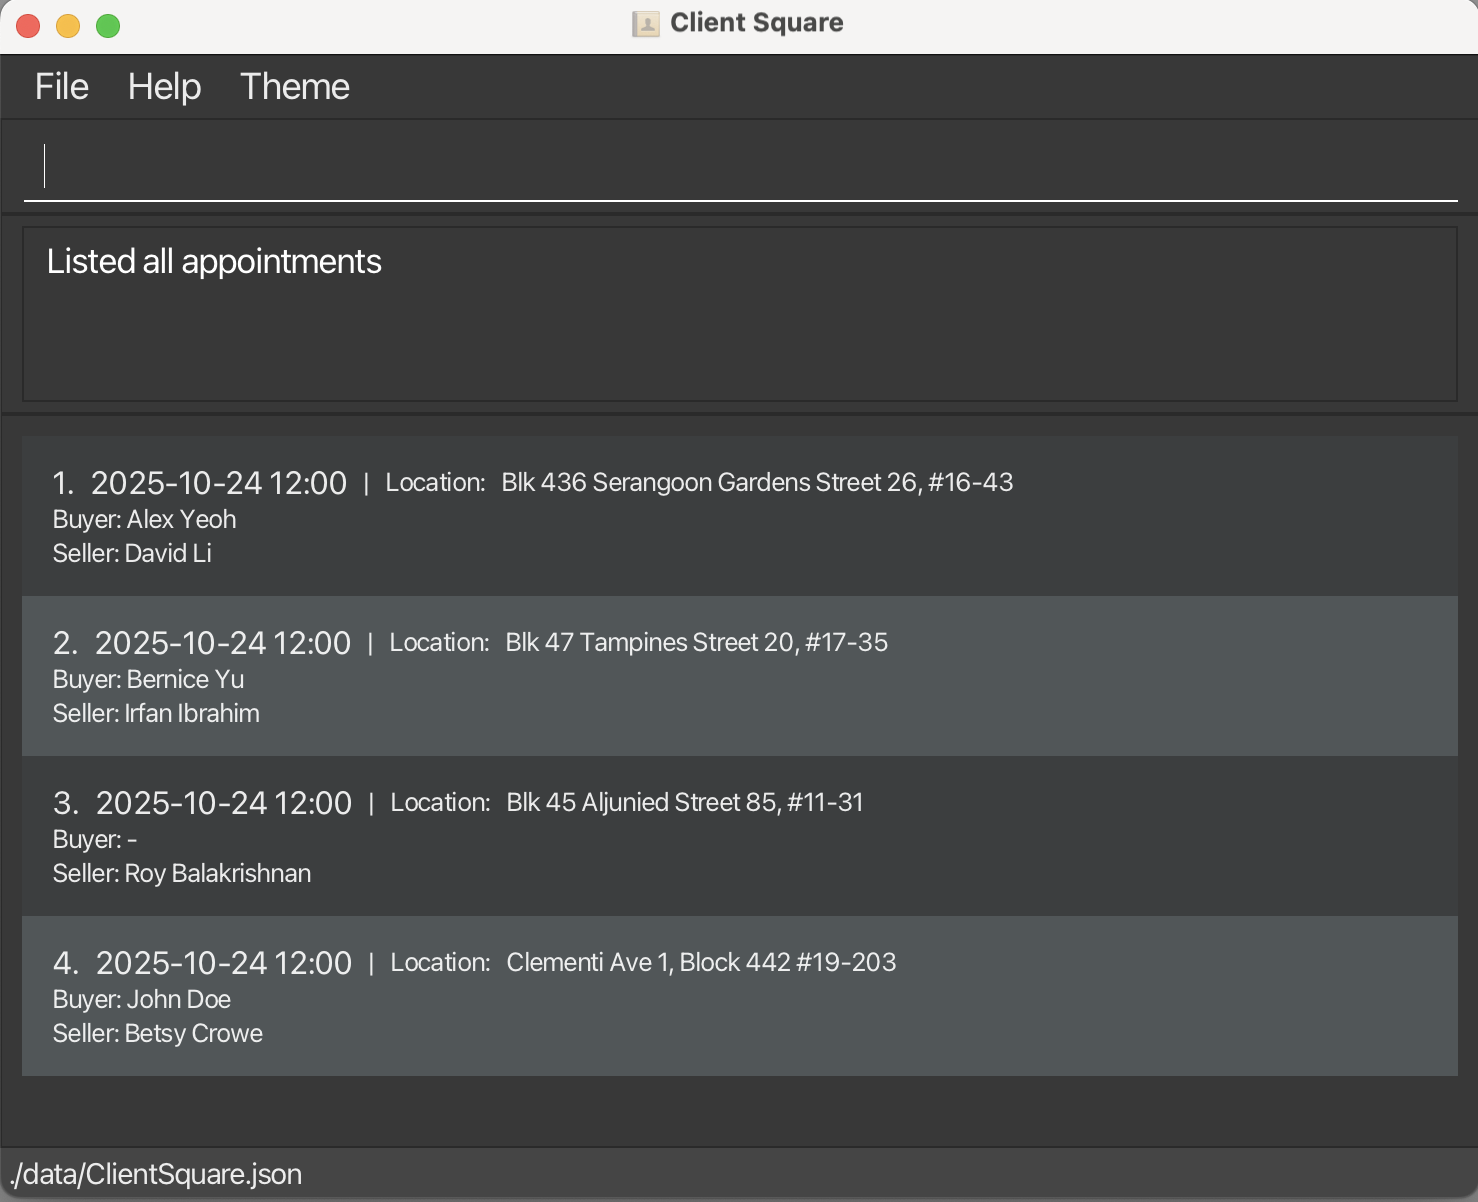
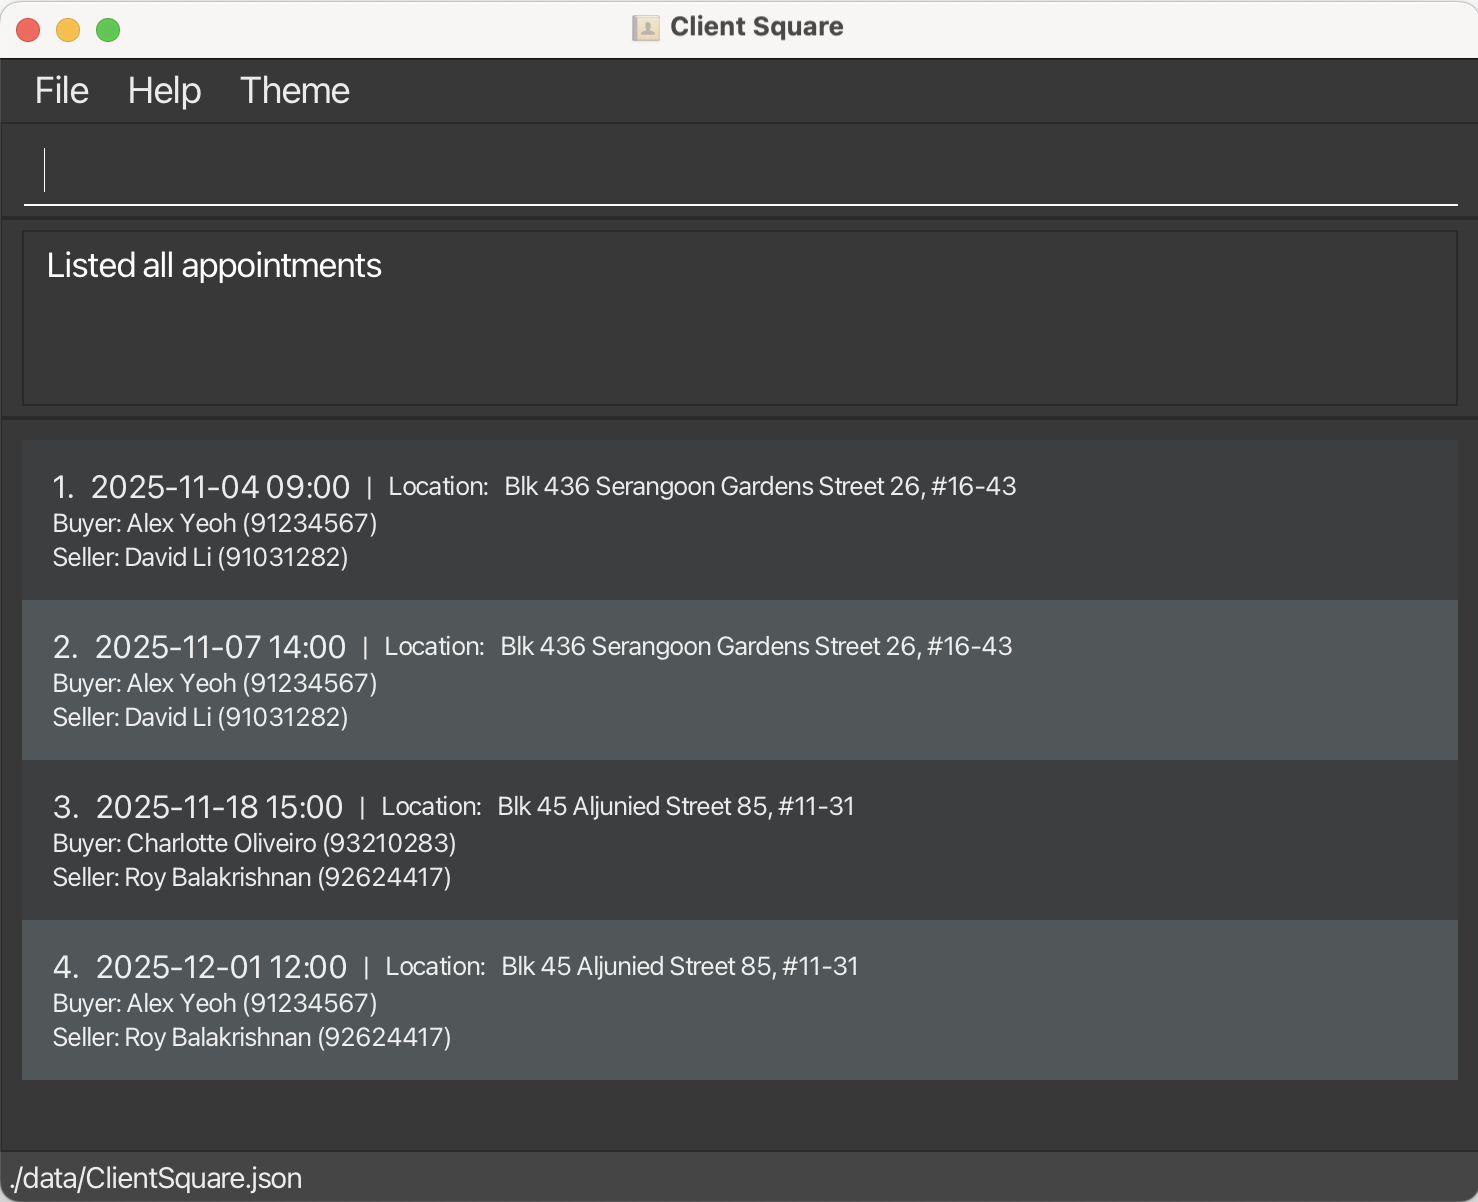
Update screenshots

diff --git a/docs/UserGuide.md b/docs/UserGuide.md
@@ -141,6 +141,7 @@ A person is uniquely identified by their **phone number**. You may add clients w
 A client can have any number of tags (including none)
 </div>
 
+<div style="page-break-after: always;"></div>
 
 Examples:
 * `add n/John Doe p/98765432 e/johnd@example.com r/buyer a/John street, block 123, #01-01 pt/HDB_4`
@@ -300,7 +301,7 @@ Format: `ap d/DATETIME s/SELLER_INDEX [b/BUYER_INDEX]`
 * Adds an appointment with the seller being the client specified by `SELLER_INDEX` and the buyer being the client specified by `BUYER_INDEX`.
 * To create an appointment with only a seller, simply omit the `b/` tag.
 * The indices refer to the index numbers shown in the displayed client list which will be a positive whole number (e.g. 1, 2, 3, ...)
-* You may assign a client without the buyer role to the buyer (and similarly for seller). 
+* **You may assign a client without the buyer role to the buyer (and similarly for seller).** 
 * You may not assign the same person as both the buyer and seller for the same appointment.
 * Provide the datetime in an ISO 8601-compliant format. (e.g. `yyyy-MM-ddTHH:mm`)
 * The seller's location is automatically displayed as the appointment location.
@@ -313,11 +314,13 @@ It is possible to add multiple appointments at the same time. Appointments will 
 Use the [`search`](#locating-clients-by-name--search) command with multiple keywords (such as `search Alex David`) to easily index the contacts you wish to create an appointment for.
 </div>
 
+<div style="page-break-after: always;"></div>
+
 Examples:
-*  `ap d/2025-12-01T12:00 s/4 b/1` adds an appointment with seller (index 4: Roy) and buyer (index 1: Alex) on 1 Dec 2025 at 12pm. `lap` can be used to view appointments after adding.
-<div style="display: flex; justify-content: center; gap: 5px;">
-  <img src="images/apResult.png" alt="result for `ap d/2025-12-01T12:00 s/4 b/1`" width="49%">
-  <img src="images/lapAfterApResult.png" alt="result for `lap`" width="49%">
+*  `list` followed by `ap d/2025-12-01T12:00 s/4 b/1` adds an appointment with seller (index 4: Roy) and buyer (index 1: Alex) on 1 Dec 2025 at 12pm. (In this case, the new appointment is at index 4 as shown below)
+
+<div style="text-align:center;">
+  <img src="images/lapAfterApResult.png" alt="result for 'ap'" width="90%">
 </div>
 <br>
 
@@ -373,23 +376,23 @@ Format 2: `sap [tf/TIMEFRAME] KEYWORD [MORE_KEYWORDS]...`
 </div>
 
 Examples:
-* `sap John` returns all appointments with 'John'
+* `sap Charlotte` returns all appointments with 'Charlotte'
 <div style="text-align:center;">
-  <img src="images/searchAppointmentJohnResult.png" alt="result for 'sap John'" width="90%">
+  <img src="images/searchAppointmentCharlotteResult.png" alt="result for 'sap Charlotte'" width="90%">
 </div>
 <br>
 
 <div style="page-break-after: always;"></div>
 
-* `sap Alex John` returns all appointments with `Alex` or `John`
+* `sap Alex David` returns all appointments with `Alex` **or** `David`
 <div style="text-align:center;">
-  <img src="images/searchAppointmentAlexJohnResult.png" alt="result for 'sap Alex John'" width="90%">
+  <img src="images/searchAppointmentAlexDavidResult.png" alt="result for 'sap Alex David'" width="90%">
 </div>
 <br>
 
-*  `sap tf/today Bernice` returns today's appointments with `Bernice Yu`(for illustration purposes, assume the date to be 2025-10-30)
+*  `sap tf/upcoming David` returns upcoming's appointments with `David Li`(for illustration purposes, assume the date to be 2025-11-04)
 <div style="text-align:center;">
-  <img src="images/searchAppointmentAlexDavidToday.png" alt="result for 'sap tf/today Bernice'" width="90%">
+  <img src="images/searchAppointmentUpcomingDavidResult.png" alt="result for 'sap tf/today David'" width="90%">
 </div>
 
 <div style="page-break-after: always;"></div>
@@ -407,14 +410,14 @@ Format: `eap APPOINTMENT_INDEX [d/DATETIME] [s/SELLER_INDEX] [b/BUYER_INDEX]`
 * All indices must be positive whole numbers, such as 1, 2, 3, ...
 * Provide the datetime in an ISO 8601-compliant format. (e.g. `yyyy-MM-ddTHH:mm`)
 * Existing values will be updated to the input values.
-* You may assign a client without the buyer role to the buyer (and similarly for seller).
+* **You may assign a client without the buyer role to the buyer (and similarly for seller).**
 * The seller and buyer cannot be the same client.
 * To remove the buyer from an appointment, use `b/` without specifying an index.
 
 Examples:
-* `lap` followed by `eap 1 d/2025-01-15T14:00` changes the datetime of the 1st appointment to 15 Jan 2025 at 2pm.
+* `lap` followed by `eap 1 d/2026-01-15T14:00` changes the datetime of the 1st appointment to 15 Jan 2026 at 2pm.
 * `lap` followed by `eap 2 s/3` changes the seller of the 2nd appointment to the 3rd client in the client list.
-* `lap` followed by `eap 1 d/2025-02-01T10:00 b/4` changes both the datetime and buyer of the 1st appointment.
+* `lap` followed by `eap 1 d/2026-02-01T10:00 b/4` changes both the datetime and buyer of the 1st appointment.
 * `lap` followed by `eap 3 b/` removes the buyer from the 3rd appointment.
 
 Tips:
